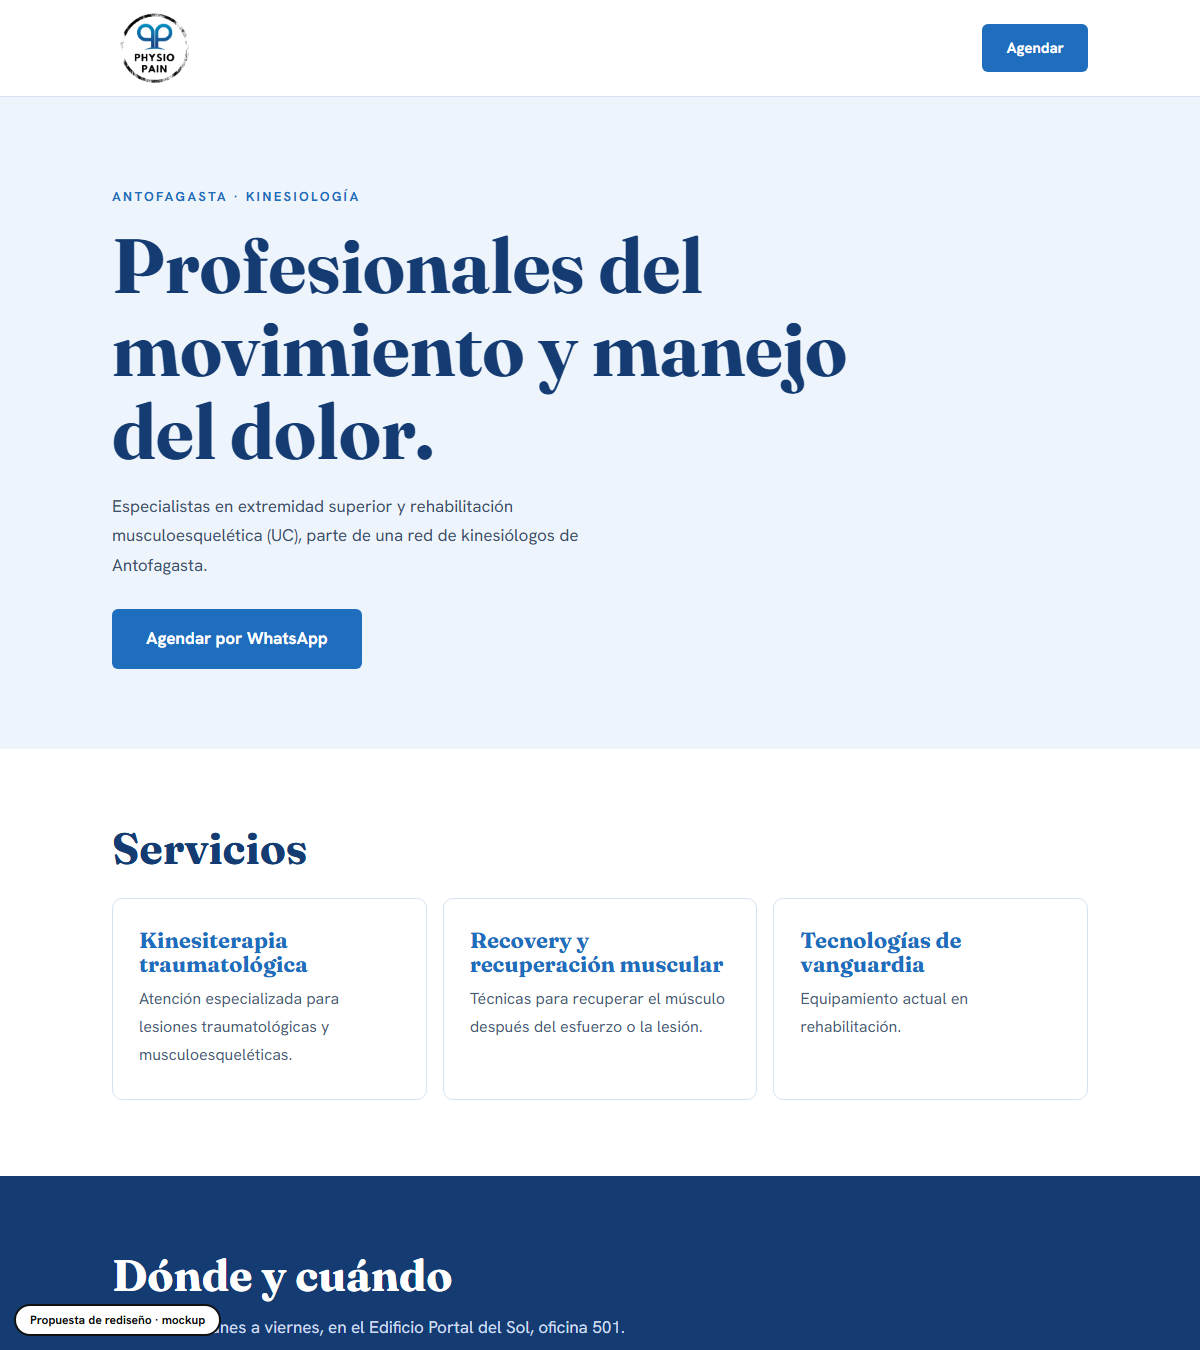
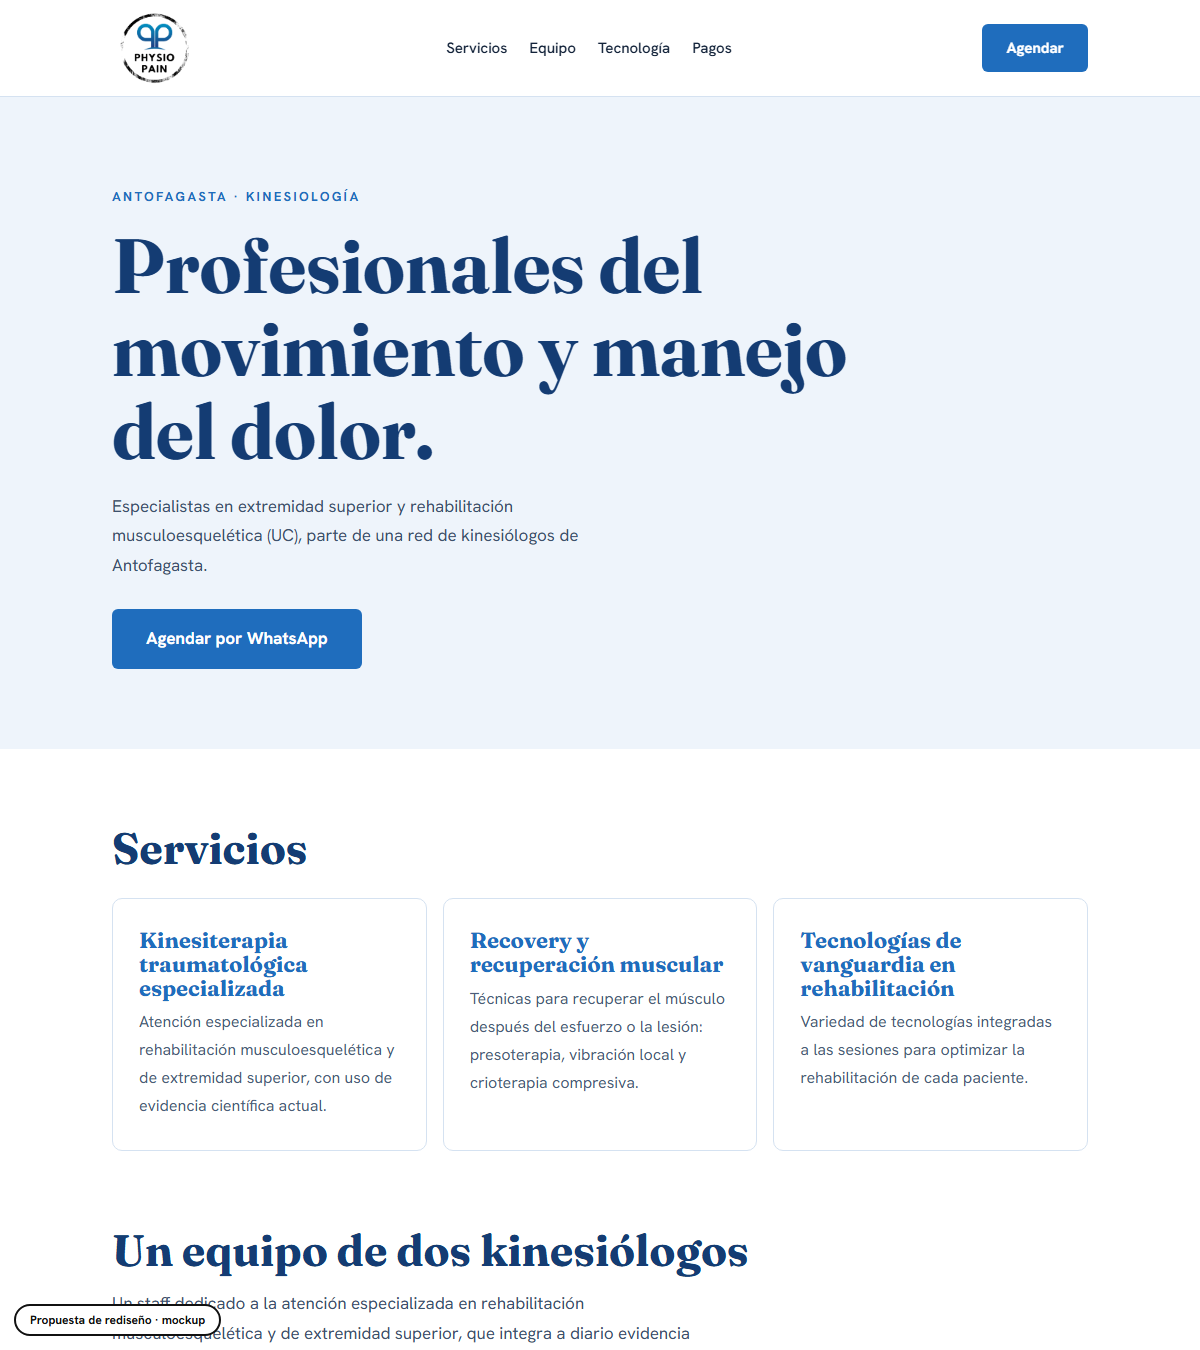
Mockup: physio-pain-chile-antofagasta

diff --git a/physio-pain-chile-antofagasta/index.html b/physio-pain-chile-antofagasta/index.html
@@ -6,12 +6,12 @@
 <link href="https://fonts.googleapis.com/css2?family=Hanken+Grotesk:wght@400;500;700&family=Fraunces:opsz,wght@9..144,500;9..144,700&display=swap" rel="stylesheet">
 <style>
 :root{--blue:#1f6dbd;--deep:#143c73;--mist:#eef4fb;--ink:#13233a;--line:#d5e2f1}
-*{box-sizing:border-box;margin:0}html{scroll-behavior:smooth}
+*{box-sizing:border-box;margin:0}html{scroll-behavior:smooth;scroll-padding-top:100px}
 @media(prefers-reduced-motion:reduce){html{scroll-behavior:auto}}
 body{background:#fff;color:var(--ink);font:400 17px/1.75 'Hanken Grotesk',sans-serif}
 .wrap{max-width:1020px;margin:0 auto;padding:0 22px}
 h1,h2,h3{font-family:Fraunces,serif;font-weight:700;line-height:1.08}
-header{border-bottom:1px solid var(--line)}header .wrap{display:flex;justify-content:space-between;align-items:center;height:96px;gap:12px}
+header{position:sticky;top:0;z-index:20;border-bottom:1px solid var(--line)}header .wrap{display:flex;justify-content:space-between;align-items:center;height:96px;gap:12px}
 header img{height:78px}
 header a.b{background:var(--blue);color:#fff;text-decoration:none;padding:11px 24px;border-radius:6px;font-weight:700;font-size:15px}
 header a.b:hover{background:var(--deep)}
@@ -27,16 +27,18 @@ section{padding:76px 0}h2{font-size:clamp(28px,4.2vw,44px);color:var(--deep);mar
 .about{background:var(--deep);color:#fff}.about h2{color:#fff}.about p{max-width:60ch;color:#cfdcf0;margin-bottom:10px}
 .contact{text-align:center}.contact a.l{display:block;font:700 clamp(32px,5.6vw,60px) Fraunces;color:var(--deep);text-decoration:none;margin:8px 0}.contact a.l:hover{color:var(--blue)}
 footer{padding:22px 0 90px;text-align:center;font-size:13px;color:#788aa4}
-.mock{position:fixed;left:14px;bottom:14px;background:#fff;color:#111;border:2px solid #111;font:700 12px/1 'Hanken Grotesk';padding:8px 14px;border-radius:30px;z-index:9}
+.mock{z-index:30;position:fixed;left:14px;bottom:14px;background:#fff;color:#111;border:2px solid #111;font:700 12px/1 'Hanken Grotesk';padding:8px 14px;border-radius:30px;z-index:9}
 @media(max-width:820px){.g3{grid-template-columns:1fr}.hero .wrap{padding:52px 22px 56px}}
-</style></head><body>
-<header><div class="wrap"><img src="assets/Physio_Pain_Cortado.png" alt="Physio Pain Chile"><a class="b" href="https://wa.me/56951066789?text=Hola%2C%20quisiera%20agendar%20una%20hora">Agendar</a></div></header>
+nav{display:flex;gap:22px;font-size:15px;font-weight:500}nav a{color:var(--ink);text-decoration:none}nav a:hover{color:var(--blue)}.team{display:grid;grid-template-columns:1fr 1fr;gap:18px;margin-top:24px}.team>div{border:1.5px solid var(--line);border-radius:10px;padding:28px;background:#fff}.team b{font:700 22px Fraunces;color:var(--deep);display:block}.team small{color:var(--blue);font-weight:700;letter-spacing:.12em;text-transform:uppercase;font-size:12px}.tg{display:grid;grid-template-columns:repeat(3,1fr);gap:14px;margin-top:24px}.tg div{background:var(--mist);border-radius:10px;padding:22px;font-weight:500;border-left:4px solid var(--blue)}.fm{display:flex;flex-wrap:wrap;gap:10px;margin-top:18px}.fm span{border:1.5px solid var(--line);border-radius:30px;padding:5px 16px;font-size:14.5px;color:var(--deep);background:#fff}.pay{background:var(--mist);border-radius:12px;padding:30px;display:flex;justify-content:space-between;gap:20px;align-items:center;flex-wrap:wrap}.pay a{background:var(--blue);color:#fff;text-decoration:none;padding:13px 28px;border-radius:6px;font-weight:700}@media(max-width:820px){nav{display:none}.team,.tg{grid-template-columns:1fr}}</style></head><body>
+<header><div class="wrap"><img src="assets/Physio_Pain_Cortado.png" alt="Physio Pain Chile"><nav><a href="#servicios">Servicios</a><a href="#equipo">Equipo</a><a href="#tecnologia">Tecnología</a><a href="#pagos">Pagos</a></nav><a class="b" href="https://wa.me/56951066789?text=Hola%2C%20quisiera%20agendar%20una%20hora">Agendar</a></div></header>
 <div class="hero"><div class="wrap"><small>Antofagasta · Kinesiología</small><h1>Profesionales del movimiento y manejo del dolor.</h1><p>Especialistas en extremidad superior y rehabilitación musculoesquelética (UC), parte de una red de kinesiólogos de Antofagasta.</p><a class="btn" href="https://wa.me/56951066789?text=Hola%2C%20quisiera%20agendar%20una%20hora">Agendar por WhatsApp</a></div></div>
-<section><div class="wrap"><h2>Servicios</h2><div class="g3">
-<div><h3>Kinesiterapia traumatológica</h3><p>Atención especializada para lesiones traumatológicas y musculoesqueléticas.</p></div>
-<div><h3>Recovery y recuperación muscular</h3><p>Técnicas para recuperar el músculo después del esfuerzo o la lesión.</p></div>
-<div><h3>Tecnologías de vanguardia</h3><p>Equipamiento actual en rehabilitación.</p></div></div></div></section>
-<section class="about"><div class="wrap"><h2>Dónde y cuándo</h2><p>Atención de lunes a viernes, en el Edificio Portal del Sol, oficina 501.</p><p>Escríbenos por WhatsApp para agendar.</p></div></section>
+<section id="servicios"><div class="wrap"><h2>Servicios</h2><div class="g3">
+<div><h3>Kinesiterapia traumatológica especializada</h3><p>Atención especializada en rehabilitación musculoesquelética y de extremidad superior, con uso de evidencia científica actual.</p></div>
+<div><h3>Recovery y recuperación muscular</h3><p>Técnicas para recuperar el músculo después del esfuerzo o la lesión: presoterapia, vibración local y crioterapia compresiva.</p></div>
+<div><h3>Tecnologías de vanguardia en rehabilitación</h3><p>Variedad de tecnologías integradas a las sesiones para optimizar la rehabilitación de cada paciente.</p></div></div></div></section>
+<section id="equipo" style="padding-top:0"><div class="wrap"><h2>Un equipo de dos kinesiólogos</h2><p style="max-width:64ch;color:#3c516d">Un staff dedicado a la atención especializada en rehabilitación musculoesquelética y de extremidad superior, que integra a diario evidencia científica actual y tecnologías de vanguardia.</p><div class="team"><div><small>Kinesiólogo</small><b>Jorge Alvear Paredes</b></div><div><small>Kinesiólogo</small><b>Sebastián Figueroa Jara</b></div></div><p style="margin-top:18px;max-width:64ch;color:#3c516d">Con posgrado Diplomado Internacional en Rehabilitación Funcional Musculoesquelética y Especialidad en Rehabilitación de Extremidad Superior (UC), más formación nacional e internacional en:</p><div class="fm"><span>FMT Performance</span><span>FDN</span><span>IASTM</span><span>MST</span><span>BFR</span><span>CK</span><span>Pain Neuroscience &amp; Movement</span></div></div></section>
+<section id="tecnologia" class="about"><div class="wrap"><h2>Prestaciones de alto nivel</h2><div class="tg"><div style="background:#1b4b8c;border-color:var(--cyan,#9cc7f4);color:#fff">Presoterapia (presión neumática intermitente)</div><div style="background:#1b4b8c;color:#fff">Vibración local neuromuscular: Theragun G2Pro, Hyperice Vyper 2.0, Hypersphere</div><div style="background:#1b4b8c;color:#fff">Técnica BFR: restricción del flujo sanguíneo</div><div style="background:#1b4b8c;color:#fff">Vendaje funcional y neuromuscular</div><div style="background:#1b4b8c;color:#fff">GameReady: crioterapia compresiva</div><div style="background:#1b4b8c;color:#fff">Reinserción deportiva, prehabilitación, entrenamiento funcional y HIIT</div></div></div></section>
+<section id="pagos"><div class="wrap"><div class="pay"><div><h2 style="margin:0">Pagos en línea</h2><p style="color:#3c516d">Paga tu sesión con tarjeta de crédito por Transbank. Respuesta a tus consultas dentro de 24 horas.</p></div><a href="#contacto">Consultar cómo pagar</a></div></div></section>
 <section class="contact" id="contacto"><div class="wrap"><h2>¿Necesitas agendar?</h2><a class="l" href="https://wa.me/56951066789">+56 9 5106 6789</a><p>También +56 9 8289 7057 · Manuel Antonio Matta 2019, of. 501, Antofagasta<br><a style="color:var(--deep)" href="mailto:kinesiologia@physiopainchile.cl">kinesiologia@physiopainchile.cl</a></p></div></section>
 <footer>PHYSIO PAIN CHILE · ANTOFAGASTA</footer>
 <div class="mock">Propuesta de rediseño · mockup</div></body></html>
